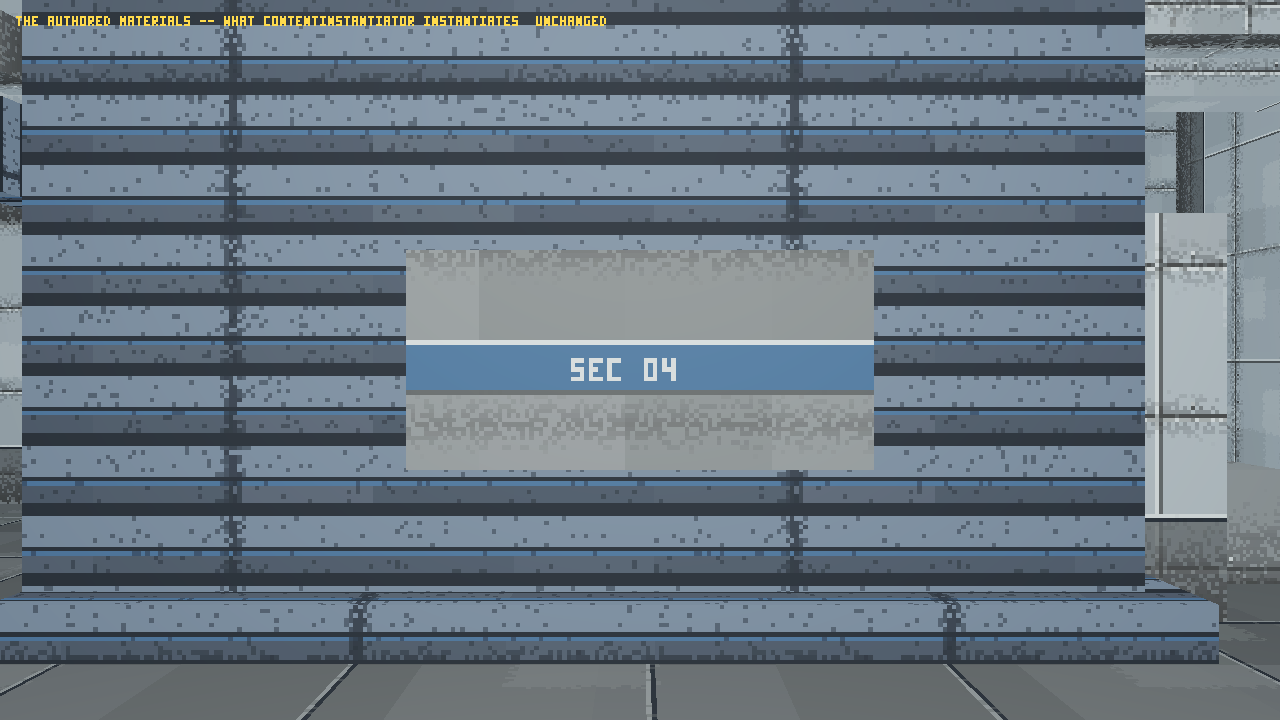
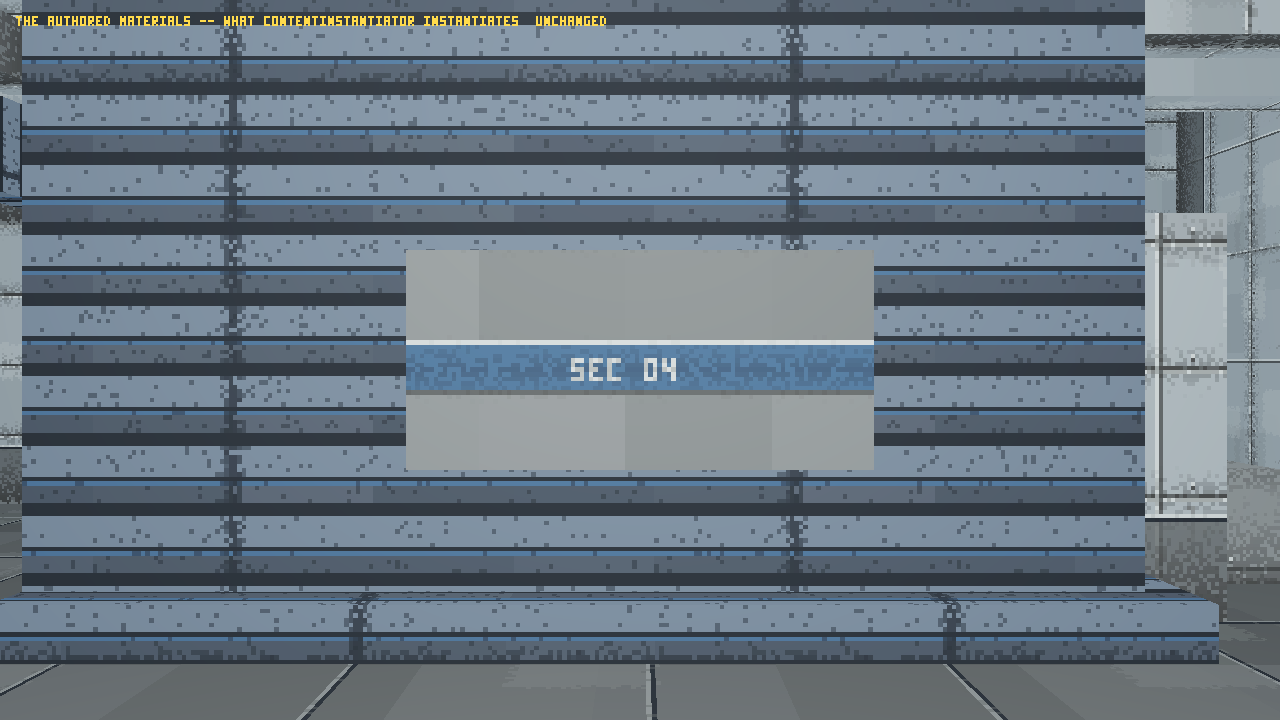
Refresh the theme-bind evidence the course ruling left stale
`3e73a2c` changed `concrete_facility`'s course pitch and shipped with
four theme-bind renders modified in the working tree. They are the
gate's own output -- `run_theme_bind.sh` writes them -- and re-running
the gate now reproduces the working-tree copies byte for byte, so the
committed ones were showing the pre-ruling pixels.

The suite was green and stayed green: it says review sheets are not
covered, and its reasoning (a stale `.glb` implies a stale sheet, and
the `.glb` is caught) does not reach a render whose SOURCE TEXTURE
changed while rebuilding byte-identical. Recorded in ART_LESSONS.md
along with the shape that would catch it -- the harness recording the
sha256 of the textures it bound, which is deterministic where a
1280x720 software render is not.

Claude-Session: https://claude.ai/code/session_01CHBZHyc8nG44Fe2niaqXbi

diff --git a/docs/art/ART_LESSONS.md b/docs/art/ART_LESSONS.md
@@ -1888,3 +1888,32 @@ pack — rather than to where it stops touching, which was 0.010 m and
 
 > **"It no longer fails" and "it now has room" are a hand's width apart
 > and one of them survives a rebuild.**
+
+---
+
+## A gate that writes evidence hides its own staleness in `git status`
+
+The course ruling changed `concrete_facility`'s course pitch. The full
+suite came back green, the commit went out, and four theme-bind evidence
+renders sat in the working tree *modified* — re-rendered by
+`run_theme_bind.sh`, which is a gate that happens to write PNGs into
+`docs/art/review/` as a side effect.
+
+`tools/check_art_current.sh` was right to pass. It says out loud that
+review sheets are not covered, and it reasons that a stale `.glb` implies
+a stale sheet and it catches the `.glb`. But the drift here ran the other
+way: the **texture** rebuilt byte-identical because it *had* been
+rebuilt, and the render made from it was the thing left behind. Nothing in
+the suite compares evidence against the pixels it was made from.
+
+> **A green suite means every check passed, not that the tree is clean.
+> Read `git status` before calling a checkpoint done — a gate that writes
+> files reports its own staleness there and nowhere else.**
+
+Not fixed by adding a byte-comparison gate on the renders: these are
+1280x720 software renders, and the first driver that encodes a PNG
+differently would make that gate cry wolf, which ends the same way as no
+gate at all. The shape that would work is for the harness to record the
+`sha256` of the textures it bound beside the renders, and compare *that*
+— deterministic, machine-independent, and it names the reason the
+evidence is stale instead of showing a pixel count.
